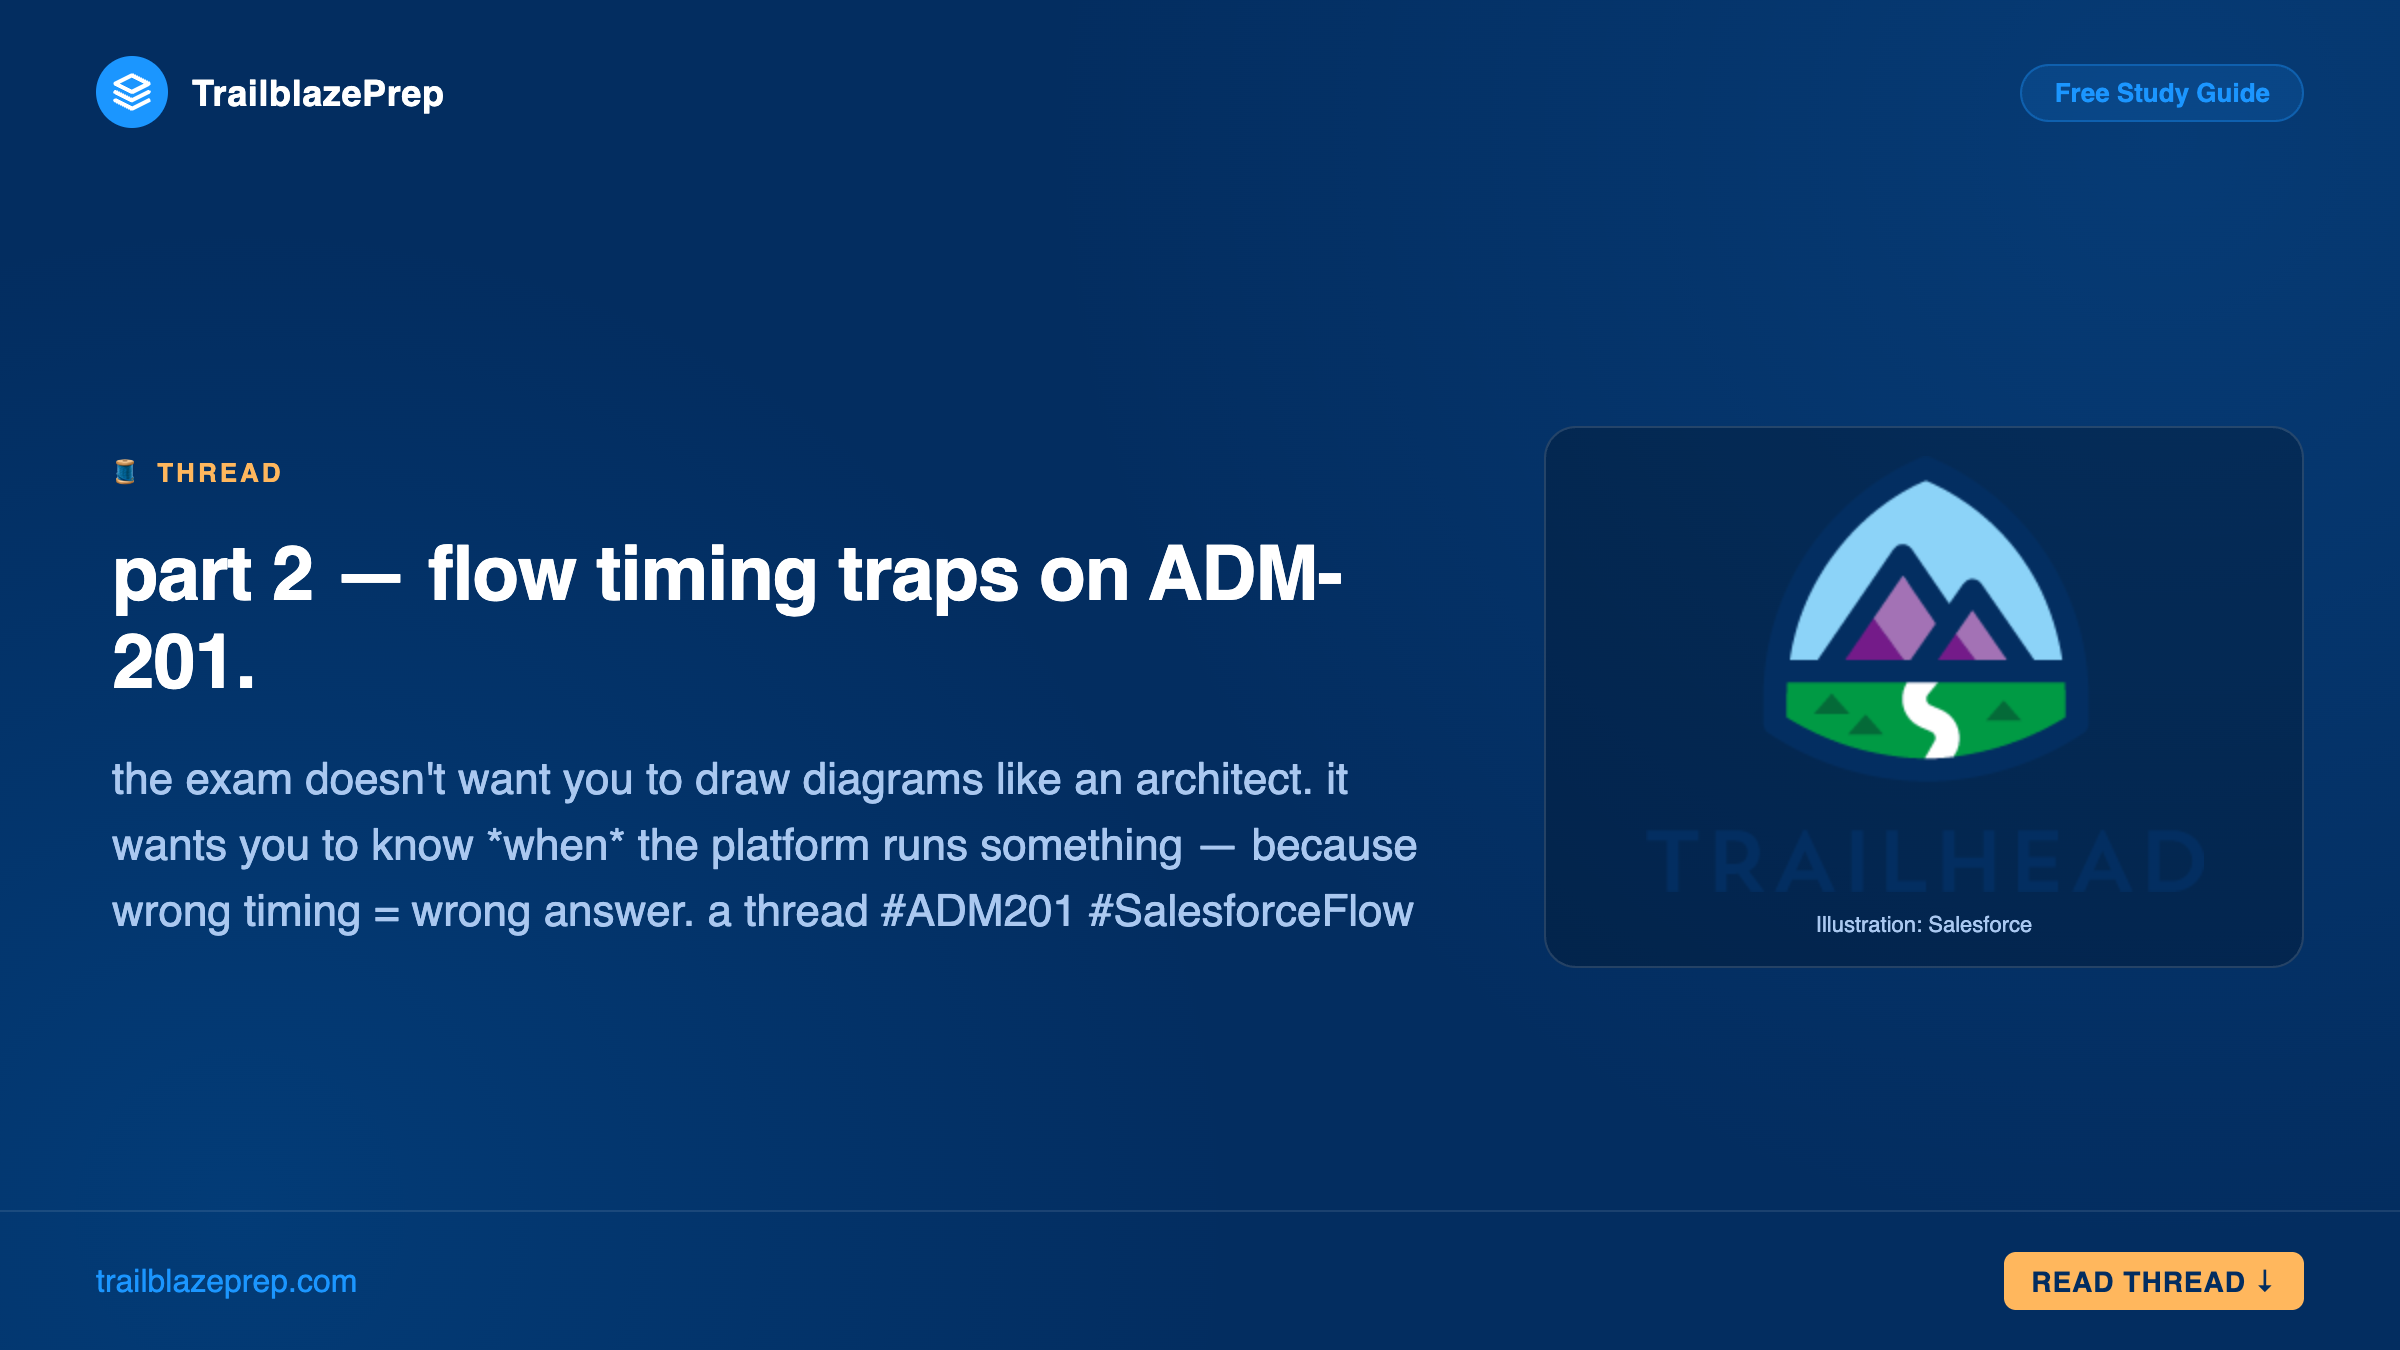
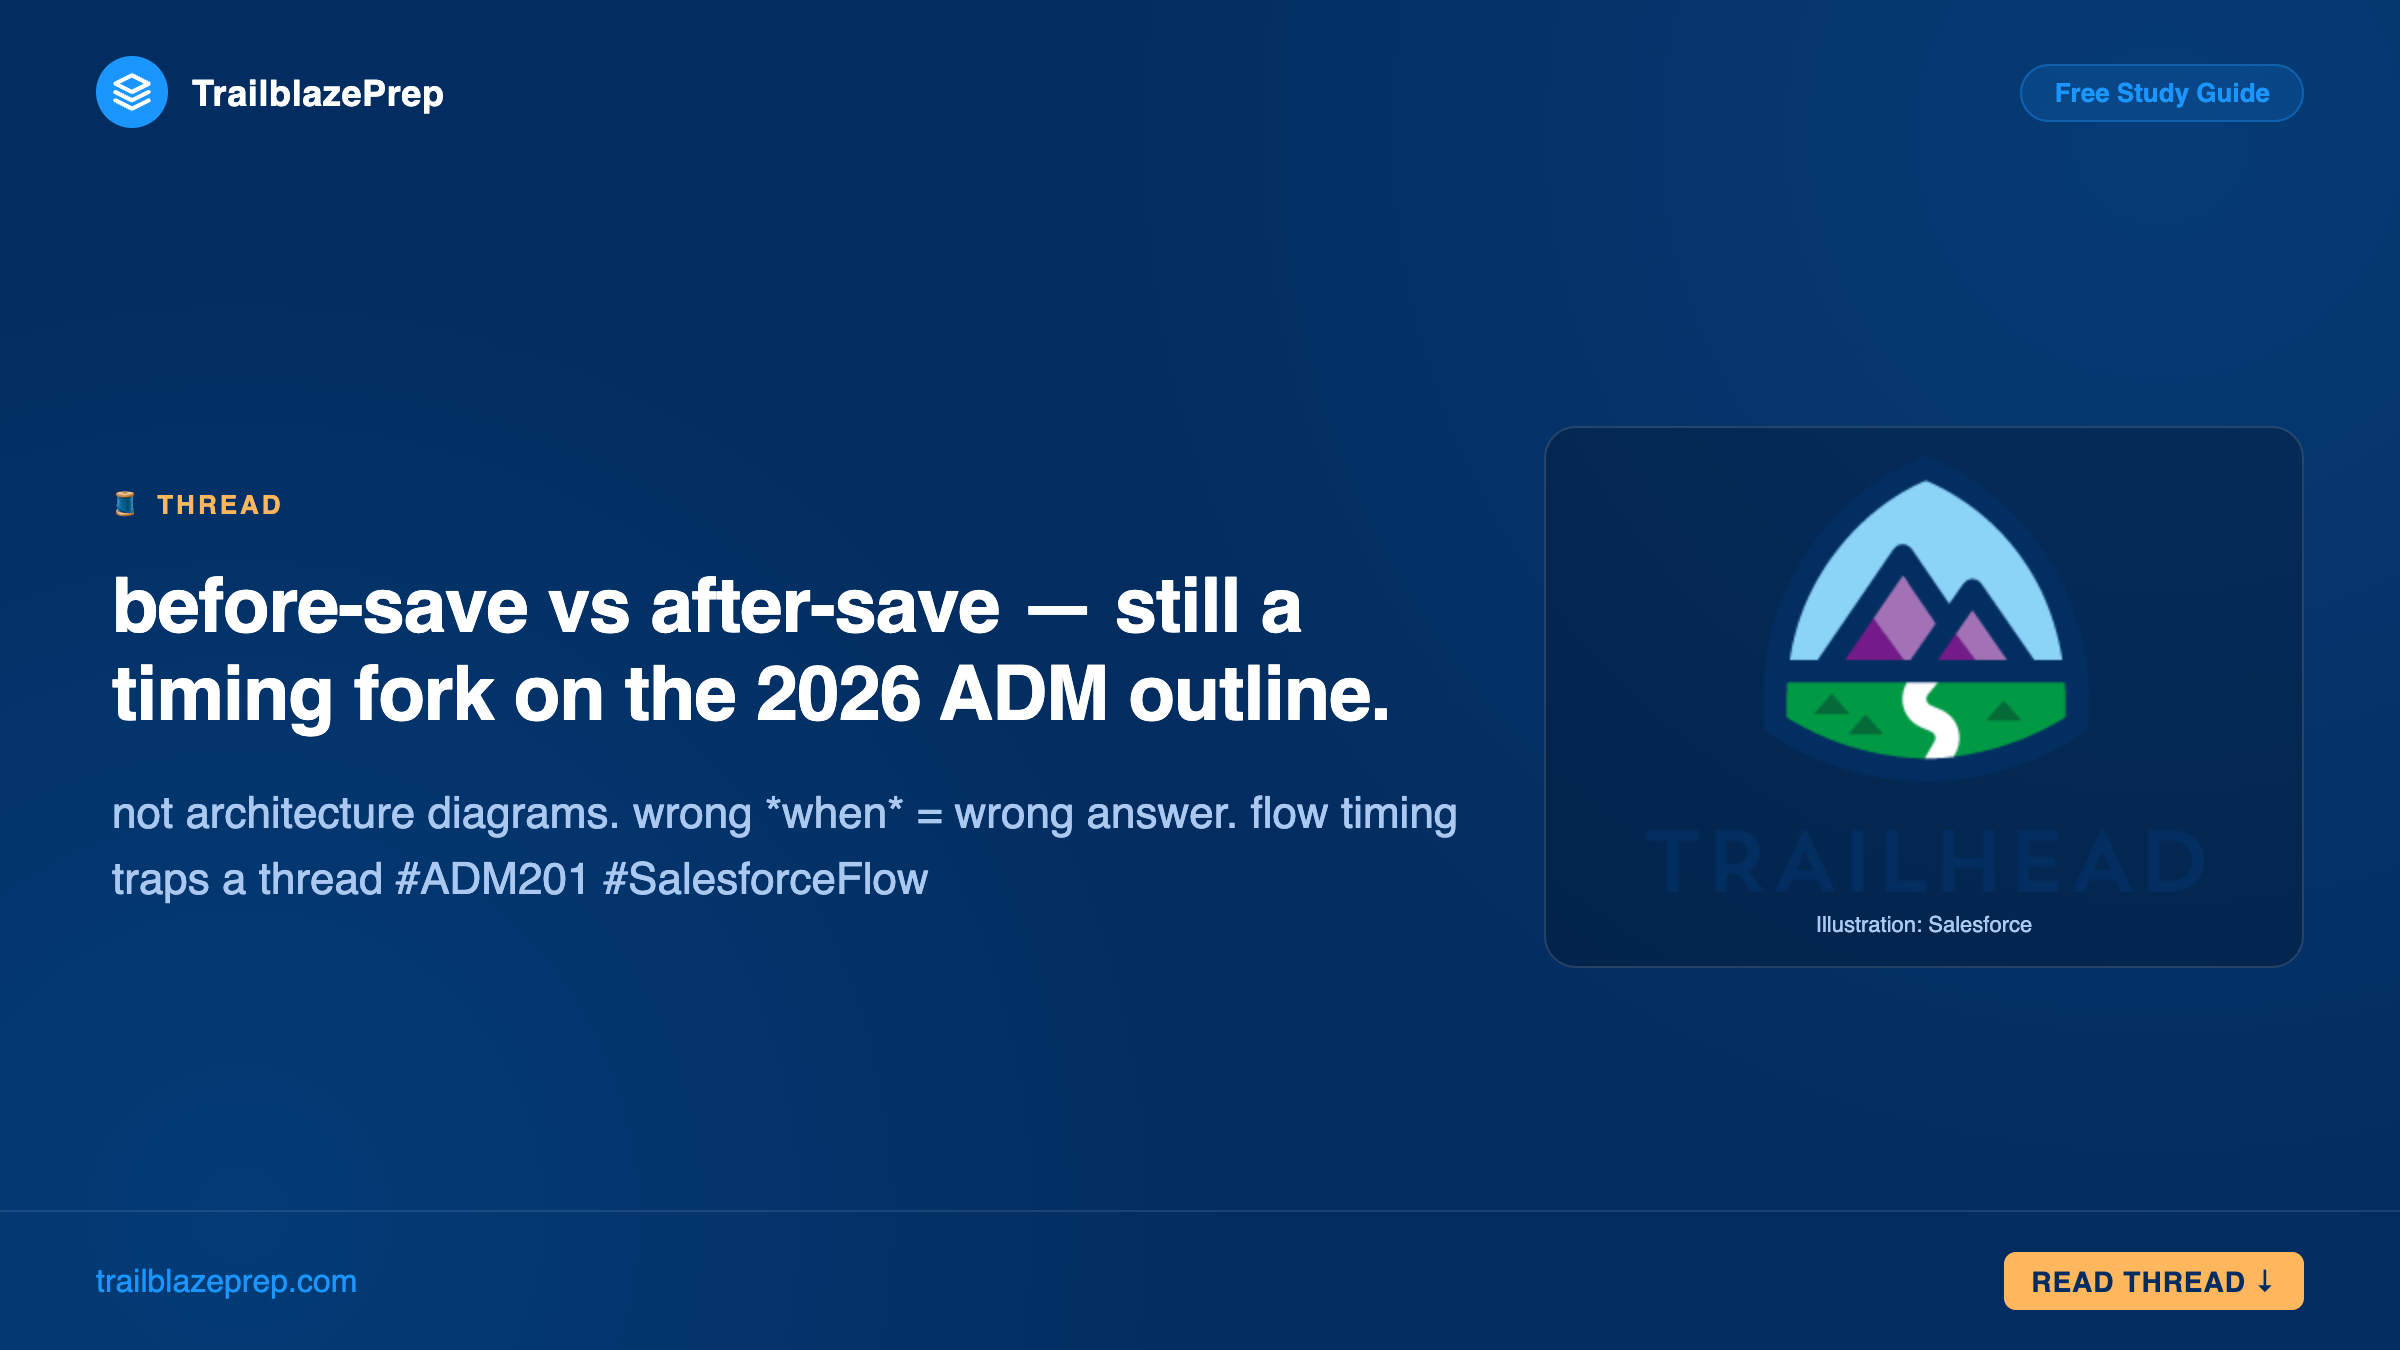
Series D Week 9 hooks + Agentforce Q-only quiz boosts
- D2–D4 thread-1 openers: named trap + 2026 guide framing; D1 poll notes same-day OP reply.
- Regenerate D2–D4 cover art; add quiz-boost-agentforce-pending.md with question tweet IDs and quote blocks.

Changed region(s): [[0.0312, 0.3422, 0.625, 0.6844]]

diff --git a/scripts/quiz-boost-agentforce-pending.md b/scripts/quiz-boost-agentforce-pending.md
@@ -1,0 +1,68 @@
+# Agentforce quizzes — Q-only quote hooks
+
+Quote the **question** tweet (not the answer). Paste the block below as your quote text. Each block is **≤ 280** chars with follow line + hashtags.
+
+**Follow line:** `follow for daily quiz questions + explanations. no spam, just useful.`
+
+---
+
+## Posted — link the question tweet
+
+| Queue id | Question `firstTweetId` | Link |
+|----------|-------------------------|------|
+| `quiz-agentforce-aiagentsession-q` | `2052252713422086194` | https://x.com/i/web/status/2052252713422086194 |
+| `quiz-agentforce-guardrails-q` | `2052252709269762458` | https://x.com/i/web/status/2052252709269762458 |
+
+---
+
+## `quiz-agentforce-aiagentsession-q` (session vs interaction)
+
+**Quote copy:**
+
+```
+Data Cloud + Agentforce: they'll ask which object holds the *whole* conversation across agents — not one message, not one turn.
+
+follow for daily quiz questions + explanations. no spam, just useful.
+
+#Agentforce #SalesforceAI
+```
+
+---
+
+## `quiz-agentforce-guardrails-q` (CEO health plan leak)
+
+**Quote copy:**
+
+```
+Agentforce isn't "just permissions." Sometimes the fix is what the agent is *allowed to talk about* — not what the user can query.
+
+follow for daily quiz questions + explanations. no spam, just useful.
+
+#Agentforce #SalesforceAI
+```
+
+---
+
+## New ADM quizzes (May 9 / May 15) — add IDs after first post
+
+After `quiz-adm-validation-cross-field-q` and `quiz-adm-roles-vs-groups-q` are posted, add rows above (or in `quiz-boost-list.md`) with `firstTweetId` links.
+
+**Validation / Closed Won + $0**
+
+```
+Classic 201 pattern: "block this save" almost always wants validation — not a formula, not a duplicate rule, and definitely not workflow cosplay.
+
+follow for daily quiz questions + explanations. no spam, just useful.
+
+#ADM201 #SalesforceAdmin
+```
+
+**Regional managers / sharing**
+
+```
+OWD private + "these people need each other's records but not the world" — brain wants public OWD or view all. usually the boring group + sharing rule is the exam answer.
+
+follow for daily quiz questions + explanations. no spam, just useful.
+
+#ADM201 #SalesforceAdmin
+```
